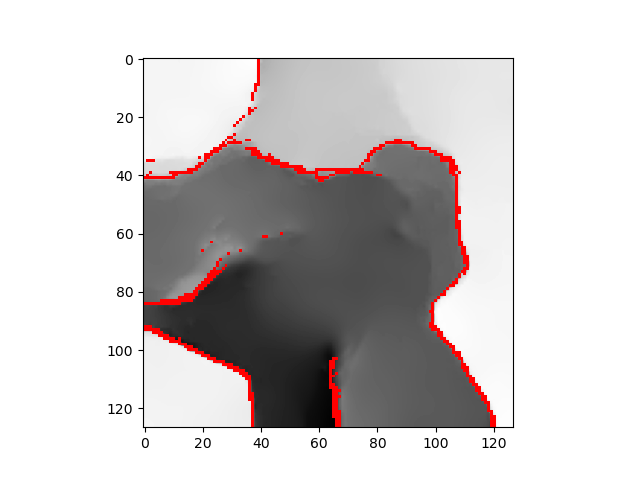
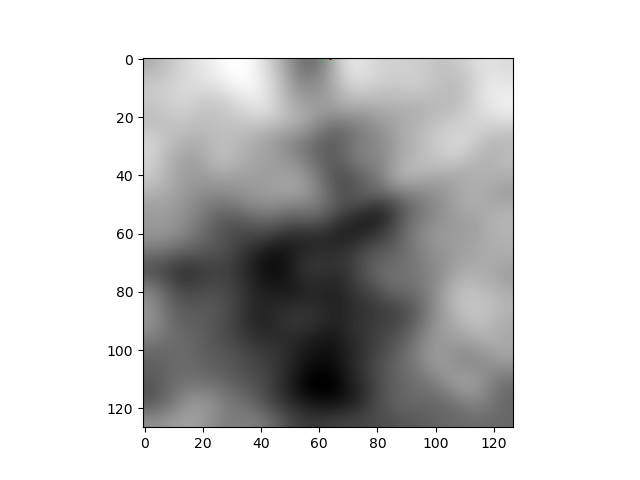
maybe fixed convergence issue?

diff --git a/src/FDD/FDD.py b/src/FDD/FDD.py
@@ -34,8 +34,9 @@ class FDD():
         
         if self.image:
             self.grid_y = np.expand_dims(Y.copy(), -1)
-            self.grid_y / np.max(self.grid_y) # TODO allow for 3d and color images
-            self.grid_x, self.grid_x_og = X.copy(), X.copy()
+            self.grid_y = self.grid_y / np.max(self.grid_y) - np.min(self.grid_y) # TODO allow for 3d and color images
+            X_temp = X.copy() / np.max(X.reshape((-1, X.shape[-1])), axis = 0)
+            self.grid_x, self.grid_x_og = X_temp.copy(), X_temp.copy()
             self.resolution = 1 / np.max(self.grid_y.shape)
         else:
             self.castDataToGrid()
@@ -411,7 +412,7 @@ if __name__ == "__main__":
     kmeans = KMeans(n_clusters=2, random_state=0).fit(Z)
     nu = X1[kmeans.labels_ == 1].max()
 
-    model = FDD(Y, X, level = 16, lmbda = 100, nu = 0.004, iter = 10000, tol = 5e-5, 
+    model = FDD(Y, X, level = 16, lmbda = 1, nu = 0.001, iter = 10000, tol = 5e-5, 
                 image=True, pick_nu = "kmeans")
     u, jumps, J_grid, nrj, eps, it = model.run()
     cv2.imwrite("result.png",u*255)

diff --git a/src/FDD/primaldual_multi.py b/src/FDD/primaldual_multi.py
@@ -240,7 +240,7 @@ class PrimalDual(torch.nn.Module):
         norm = torch.sqrt(torch.sum(mx * mx, dim = 0))
         
         mask = (norm > (nu )) # * sx.shape[1]
-        sx = torch.where(torch.stack([mask] * mx.size(dim = 0), dim=0), mx * nu / norm, mx)
+        sx = torch.where(torch.stack([mask] * mx.size(dim = 0), dim=0), mx * nu / norm, mx) # TODO sx.shape[1]?
         
         return sx
 
